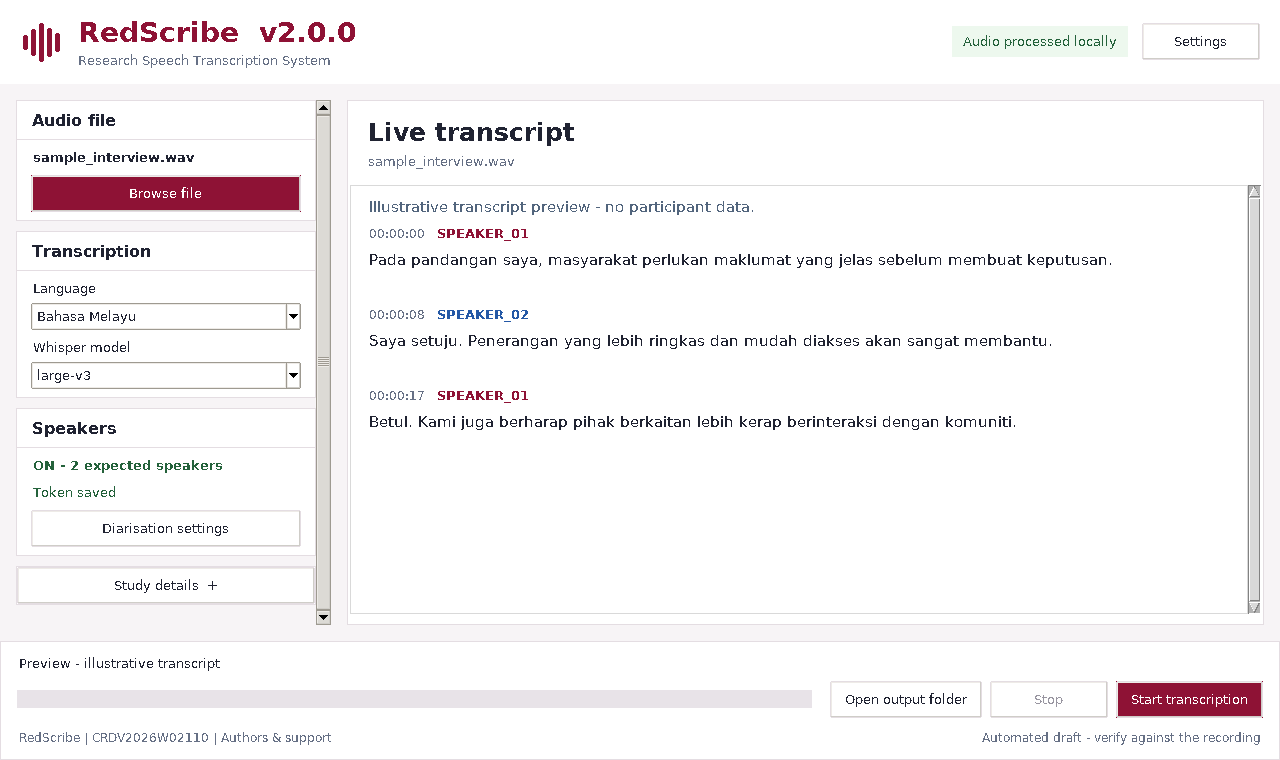
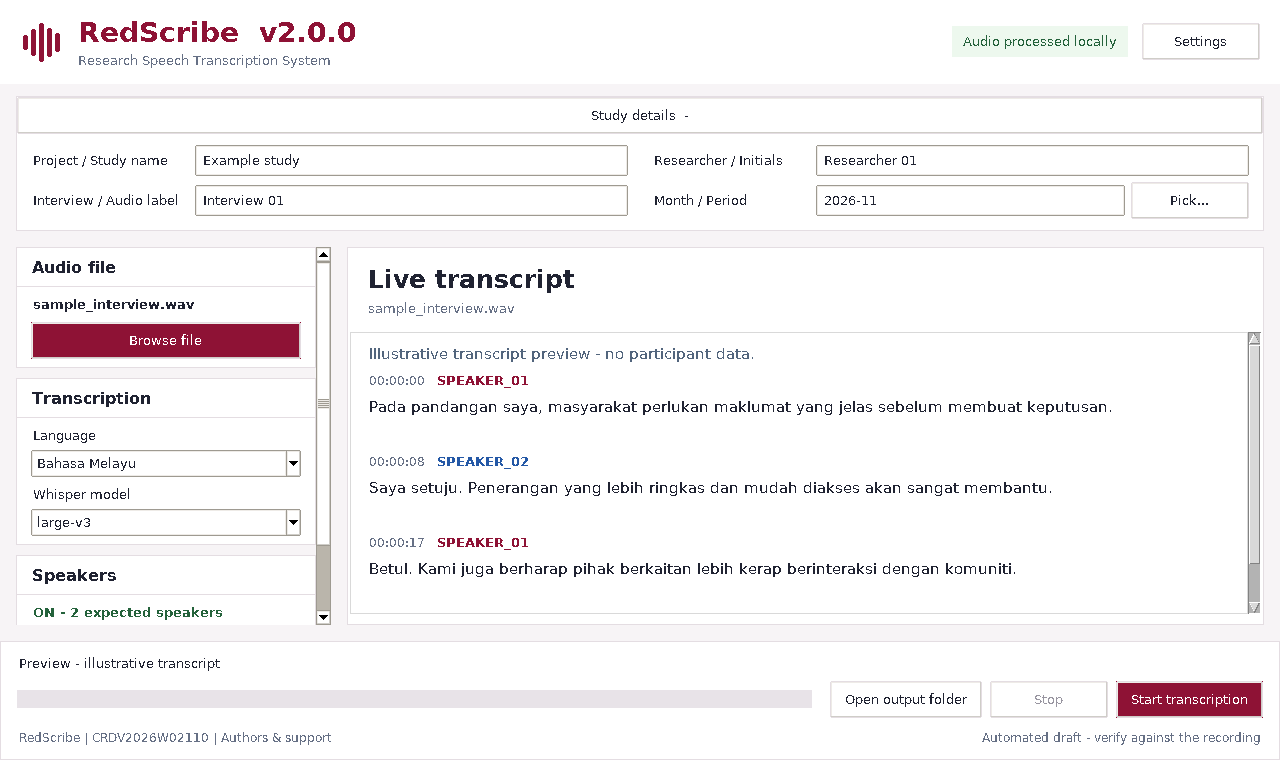
Place Study details above the workspace and open it by default

diff --git a/redscribe_gpu.py b/redscribe_gpu.py
@@ -909,7 +909,7 @@ class RedScribeApp:
         self.speaker_count = tk.StringVar()
         self.diarization_summary = tk.StringVar()
         self.file_summary = tk.StringVar(value="No file selected")
-        self.study_details_open = False
+        self.study_details_open = True
 
         self.base_output_dir = os.path.join(os.path.dirname(os.path.abspath(__file__)), "output")
         self.last_output_folder = None
@@ -961,7 +961,7 @@ class RedScribeApp:
         style.configure("RedScribe.Horizontal.TProgressbar", background=c["accent"],
                         troughcolor="#E8E3E8", bordercolor="#E8E3E8", thickness=7)
         self.root.columnconfigure(0, weight=1)
-        self.root.rowconfigure(1, weight=1)
+        self.root.rowconfigure(2, weight=1)
 
         header = tk.Frame(self.root, bg=c["surface"], padx=20, pady=14)
         header.grid(row=0, column=0, sticky="ew")
@@ -980,8 +980,33 @@ class RedScribeApp:
         tk.Label(header, text="Audio processed locally", bg="#EDF8EE", fg="#24623B",
                  padx=10, pady=7).pack(side="right", padx=14)
 
+        study = tk.Frame(self.root, bg="white", highlightbackground=c["border"], highlightthickness=1)
+        study.grid(row=1, column=0, sticky="ew", padx=16, pady=(12, 0))
+        self.study_toggle = ttk.Button(study, text="Study details  -", style="RedScribe.TButton", command=self.toggle_study_details)
+        self.study_toggle.pack(fill="x")
+        self.study_fields = tk.Frame(study, bg="white", padx=14, pady=8)
+        self.study_fields.pack(fill="x")
+        self.study_fields.columnconfigure(0, weight=1, uniform="study")
+        self.study_fields.columnconfigure(1, weight=1, uniform="study")
+        for row, column, label, variable in (
+            (0, 0, "Project / Study name", self.project),
+            (0, 1, "Researcher / Initials", self.researcher),
+            (1, 0, "Interview / Audio label", self.label),
+            (1, 1, "Month / Period", self.period),
+        ):
+            field = tk.Frame(self.study_fields, bg="white")
+            field.grid(row=row, column=column, sticky="ew", padx=(0, 12) if column == 0 else (12, 0), pady=3)
+            tk.Label(field, text=label, bg="white", fg=c["text"], width=20, anchor="w").pack(side="left")
+            entry = ttk.Entry(field, textvariable=variable, width=12, style="RedScribe.TEntry")
+            if variable is self.period:
+                ttk.Button(field, text="Pick...", style="RedScribe.TButton", command=self.pick_period).pack(side="right", padx=(6, 0))
+            entry.pack(side="left", fill="x", expand=True)
+            if variable is self.project:
+                self.project_entry = entry
+        self.root.after_idle(self.project_entry.focus_set)
+
         workspace = tk.Frame(self.root, bg=c["background"])
-        workspace.grid(row=1, column=0, sticky="nsew", padx=16, pady=16)
+        workspace.grid(row=2, column=0, sticky="nsew", padx=16, pady=16)
         workspace.rowconfigure(0, weight=1)
         workspace.columnconfigure(1, weight=1)
         sidebar = tk.Frame(workspace, bg=c["background"])
@@ -1036,21 +1061,6 @@ class RedScribeApp:
         self.token_badge.pack(fill="x", pady=(0, 8))
         ttk.Button(speakers, text="Diarisation settings", style="RedScribe.TButton", command=self.open_token_settings).pack(fill="x")
 
-        study = tk.Frame(self.sidebar_content, bg="white", highlightbackground=c["border"], highlightthickness=1)
-        study.pack(fill="x", pady=(0, 12))
-        self.study_toggle = ttk.Button(study, text="Study details  +", style="RedScribe.TButton", command=self.toggle_study_details)
-        self.study_toggle.pack(fill="x")
-        self.study_fields = tk.Frame(study, bg="white", padx=14, pady=8)
-        for label, variable in (("Project / Study name", self.project), ("Researcher / Initials", self.researcher),
-                                ("Interview / Audio label", self.label)):
-            tk.Label(self.study_fields, text=label, bg="white", fg=c["text"]).pack(anchor="w", pady=(0, 4))
-            ttk.Entry(self.study_fields, textvariable=variable, width=20, style="RedScribe.TEntry").pack(fill="x", pady=(0, 10))
-        tk.Label(self.study_fields, text="Month / Period (YYYY-MM)", bg="white", fg=c["text"]).pack(anchor="w", pady=(0, 4))
-        period_row = tk.Frame(self.study_fields, bg="white")
-        period_row.pack(fill="x")
-        ttk.Entry(period_row, textvariable=self.period, width=12, style="RedScribe.TEntry").pack(side="left", fill="x", expand=True)
-        ttk.Button(period_row, text="Pick...", style="RedScribe.TButton", command=self.pick_period).pack(side="left", padx=(6, 0))
-
         transcript = tk.Frame(workspace, bg="white", highlightbackground=c["border"], highlightthickness=1)
         transcript.grid(row=0, column=1, sticky="nsew")
         transcript.rowconfigure(2, weight=1)
@@ -1082,7 +1092,7 @@ class RedScribeApp:
         self.log_info("Your transcript will appear here.\nSelect an audio file, then choose Start transcription.")
 
         bottom = tk.Frame(self.root, bg="white", padx=16, pady=12, highlightbackground=c["border"], highlightthickness=1)
-        bottom.grid(row=2, column=0, sticky="ew")
+        bottom.grid(row=3, column=0, sticky="ew")
         bottom.columnconfigure(0, weight=1)
         self.status = tk.StringVar(value="Ready")
         self.status_label = tk.Label(bottom, textvariable=self.status, bg="white", fg=c["text"], anchor="w", justify="left", wraplength=600)

diff --git a/tests/test_desktop_layout.py b/tests/test_desktop_layout.py
@@ -57,6 +57,10 @@ class DesktopLayoutTests(unittest.TestCase):
         self.assertTrue(self.app.diarization_enabled.get())
         self.assertFalse(hasattr(self.app, "token_entry"))
         self.assertGreater(self.app.live_box.winfo_width(), self.app.sidebar_canvas.winfo_width())
+        self.assertTrue(self.app.study_fields.winfo_ismapped())
+        self.assertLess(self.app.study_fields.winfo_rooty(), self.app.sidebar_canvas.winfo_rooty())
+        self.app.toggle_study_details()
+        self.root.update()
         self.assertFalse(self.app.study_fields.winfo_ismapped())
         self.app.toggle_study_details()
         self.root.update()
@@ -69,8 +73,6 @@ class DesktopLayoutTests(unittest.TestCase):
 
     def test_small_window_keeps_transcript_and_actions_visible(self):
         self.root.geometry("900x600")
-        self.root.update()
-        self.app.toggle_study_details()
         self.root.update()
         for widget in (self.app.live_box, self.app.start_btn, self.app.stop_btn, self.app.open_btn):
             self.assertTrue(widget.winfo_ismapped())

diff --git a/README.md b/README.md
@@ -160,7 +160,7 @@ Token availability does not guarantee diarisation access: accept the model condi
 
 *Actual Tkinter UI with illustrative transcript text and simulated token availability; no participant data or real token is shown. Fonts and window decorations vary by operating system.*
 
-The workspace uses a white and maroon theme. Audio selection, transcription language and Whisper model sit in the left column; **Study details** expands to reveal the optional project, researcher, interview label and reporting period. The left column scrolls when more space is needed, while the live transcript and bottom actions remain visible.
+The workspace uses a white and maroon theme. **Study details** sits immediately below the header and is open by default, so the project, researcher, interview label and reporting period can be entered first. It can be collapsed afterwards. Audio selection, transcription language and Whisper model sit in the left column. The left column scrolls when more space is needed, while the live transcript and bottom actions remain visible.
 
 The right panel shows English processing notices, diarisation activity and elapsed time, the speaker timeline preview, and timestamped transcription with consistent speaker colours. The bottom bar retains progress, status/ETA, **Open output folder**, **Stop** and **Start transcription**. During diarisation, percentages refer only to supported processing stages, not to completion of the entire recording.
 

diff --git a/CHANGELOG.md b/CHANGELOG.md
@@ -22,7 +22,7 @@ All notable changes to RedScribe are documented in this file. The dated 2.0.0 en
 
 ### Changed
 
-- Redesigned the desktop workspace with white/maroon styling, a scrollable left configuration column, a larger live transcript, collapsible Study details and persistent bottom actions.
+- Redesigned the desktop workspace with white/maroon styling, a scrollable left configuration column, a larger live transcript, Study details above the workspace (open by default) and persistent bottom actions.
 - Moved all diarisation controls (enabled by default, expected speakers and token management) into Settings, with concise summaries on the main window.
 - Added consistent speaker colours in the live transcript and a system-font fallback for Windows, macOS and Linux.
 
